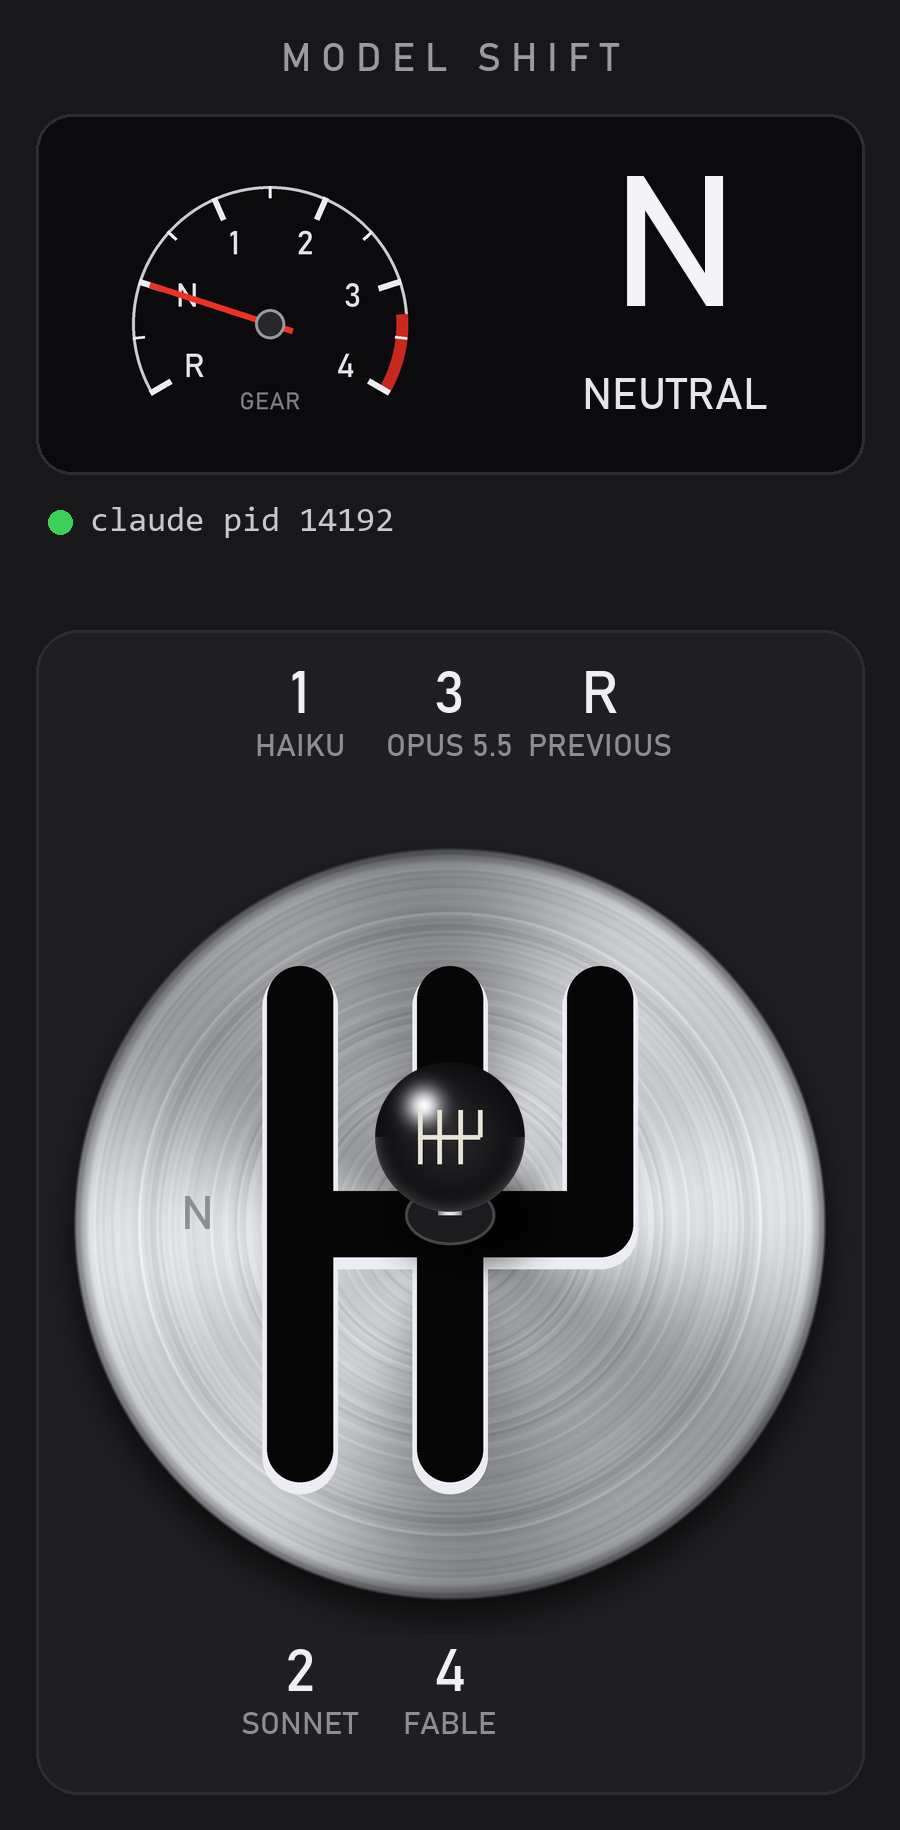
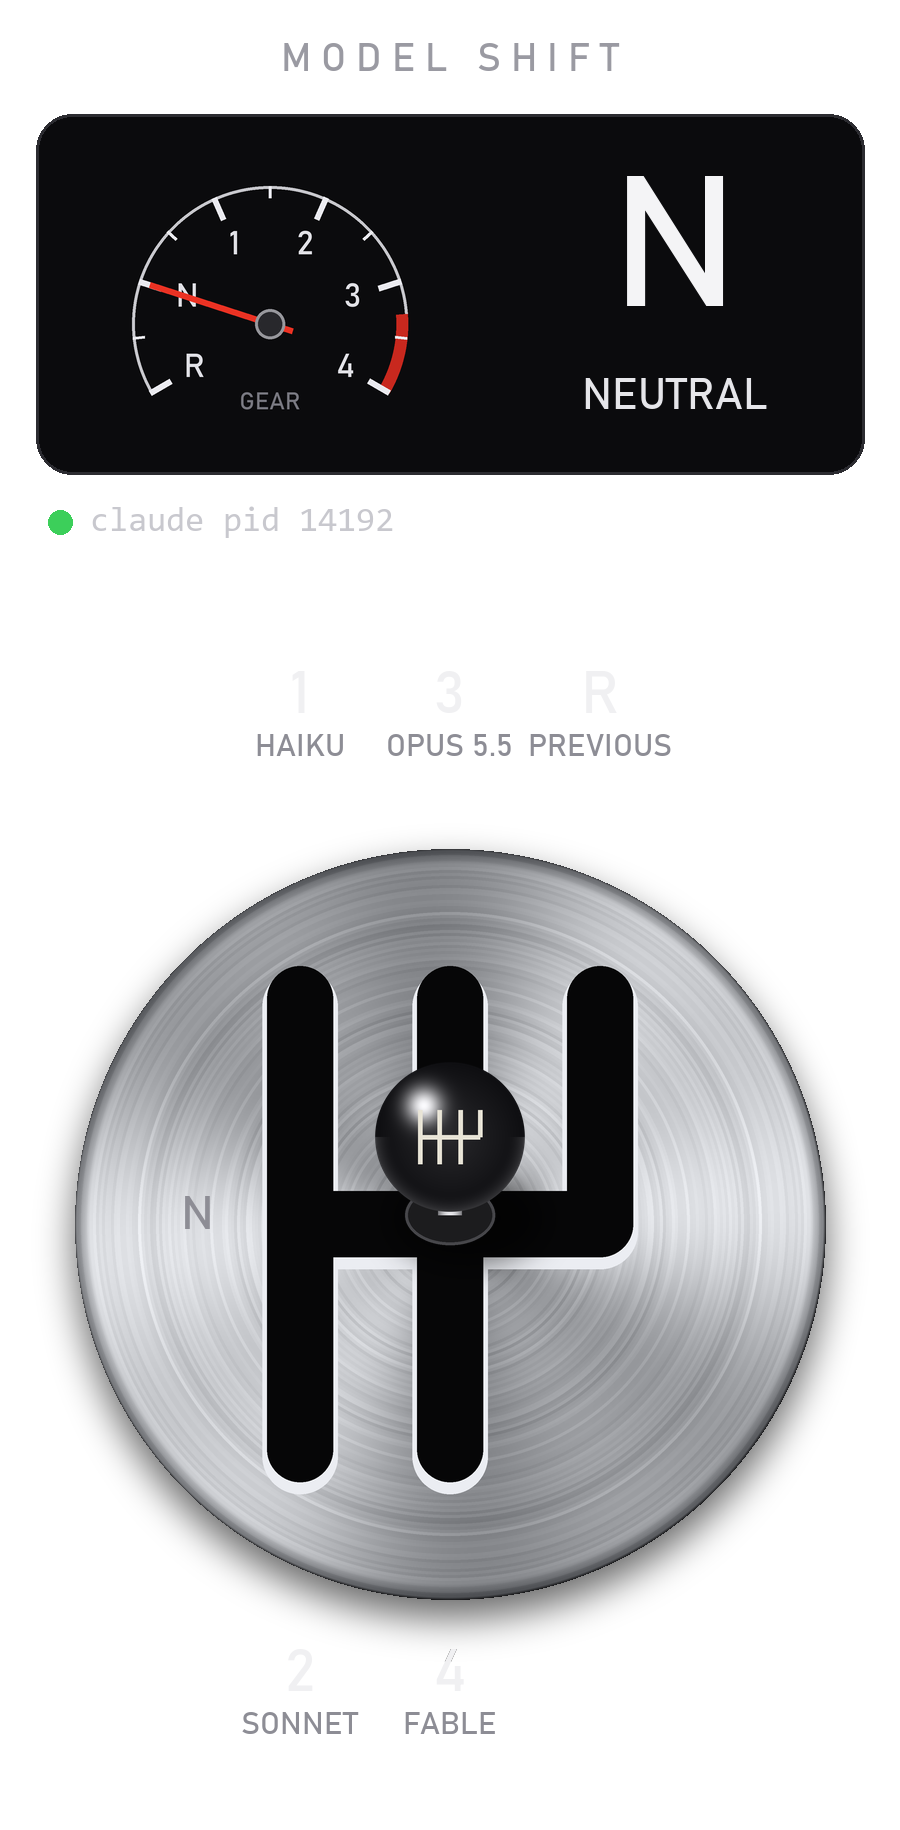
Transparent background

diff --git a/README.md b/README.md
@@ -1,5 +1,5 @@
 # gearbox
-<p align="center"><img src="docs/gearbox.png" alt="gearbox" width="320"></p>
+<p align="center"><picture><source media="(prefers-color-scheme: dark)" srcset="docs/gearbox.png"><img src="docs/gearbox-light.png" alt="gearbox" width="320"></picture></p>
 
 Six-speed H-pattern shifter that switches the model of a running Claude Code session by typing `/model <id>` into its tmux pane.
 
